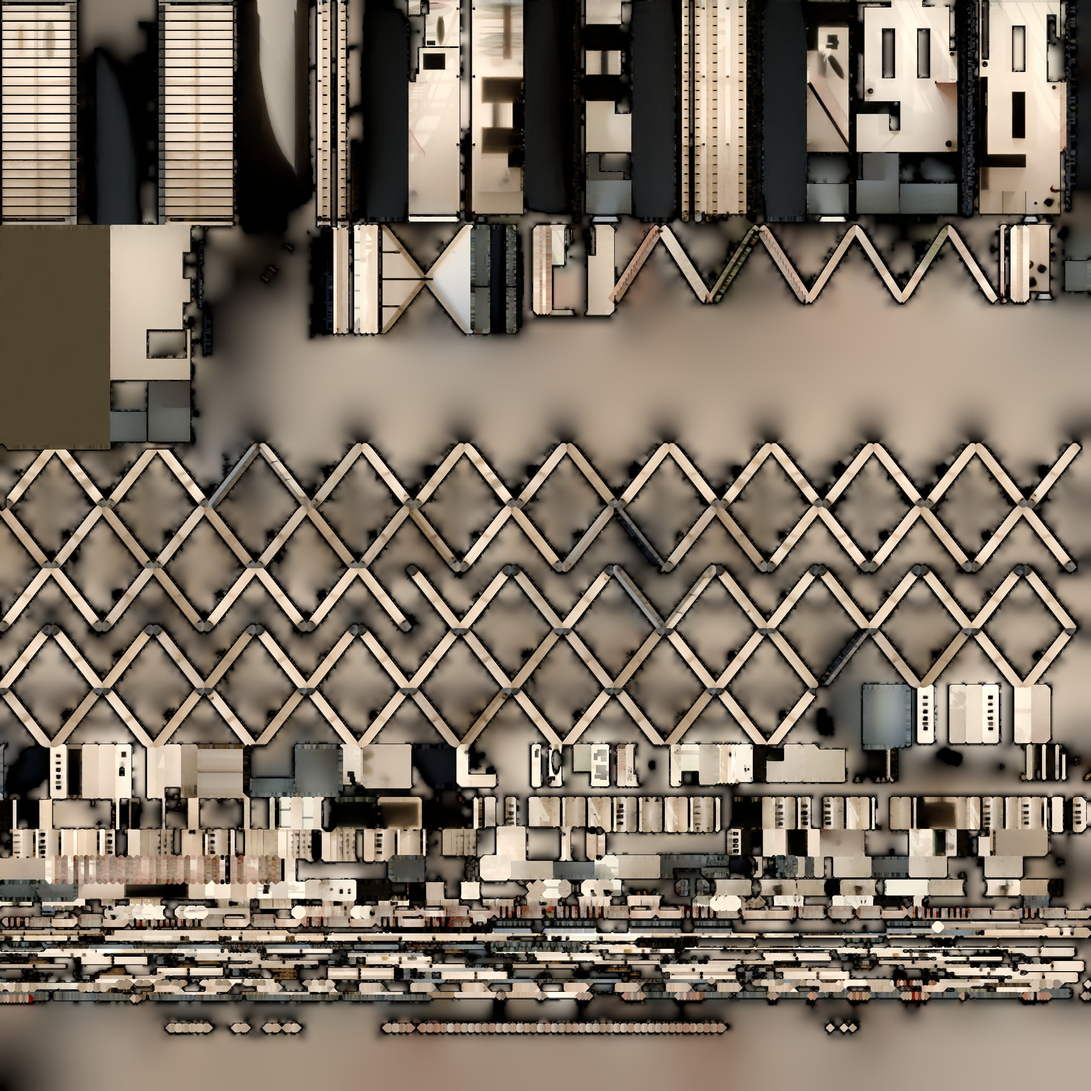
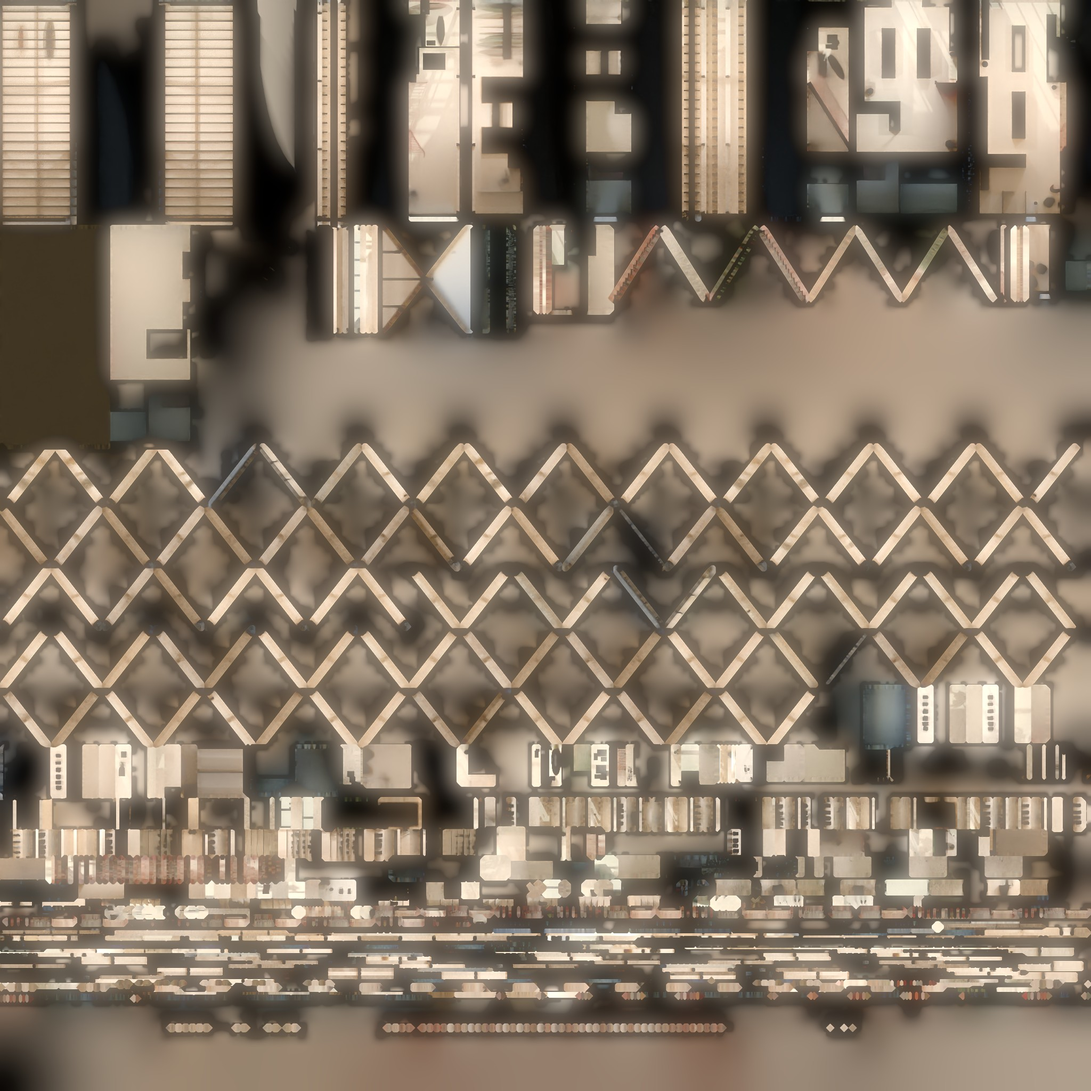
Flecken weg, Gwand ohne Doppelungen, Dachüberstand weg, saubere Fassaden, kräftigere Außenansicht, ruhigeres Layout
Claude-Session: https://claude.ai/code/session_01KTKjPRYoRgXpQnt9gzr4rm

Changed region(s): [[0.0, 0.0, 1.0, 0.9688], [0.9688, 0.5625, 1.0, 0.5938]]

diff --git a/look.css b/look.css
@@ -1,49 +1,28 @@
-/* visual refresh: editorial intro, bottom dock */
-:root{--sand:#efe6d2;--paper:#f8f3e8;--ink:#1f3a44;--coral:#e0582f;--gold:#d9a441}
-.intro{align-items:stretch;justify-content:space-between;flex-direction:column;padding:clamp(18px,4vw,52px);
-  background:radial-gradient(120% 90% at 0% 100%,rgba(16,14,11,.88) 0%,rgba(16,14,11,.7) 45%,rgba(16,14,11,.0) 80%),
-             linear-gradient(180deg,rgba(16,14,11,.45),rgba(16,14,11,0) 30%);color:var(--paper)}
-.intro__top{display:flex;justify-content:space-between;align-items:center;gap:1rem}
-.intro .brand{color:var(--paper)}
-.intro .brand__mark{background:var(--coral)}
-.intro__tag{font-size:.72rem;letter-spacing:.14em;text-transform:uppercase;opacity:.75}
-.intro__body{max-width:640px;margin-top:auto}
-.intro__kicker{display:flex;align-items:center;gap:.55rem;font-size:.78rem;letter-spacing:.16em;text-transform:uppercase;color:var(--gold);margin:0}
-.intro__kicker .dot{width:8px;height:8px;border-radius:50%;background:var(--coral);box-shadow:0 0 0 4px rgba(224,88,47,.25)}
-.intro h1{color:var(--paper);font-size:clamp(3rem,9vw,7.2rem);line-height:.88;letter-spacing:-.035em;margin:.9rem 0 1.1rem;text-transform:none}
+/* clean look: model in full view, compact dark card */
+:root{--sand:#efe6d2;--paper:#f8f3e8;--ink:#1f3a44;--coral:#e0582f;--gold:#e2ad52}
+#scene{filter:contrast(1.08) saturate(1.15)}
+.intro{flex-direction:column;justify-content:space-between;align-items:stretch;padding:clamp(16px,3vw,36px);background:linear-gradient(180deg,rgba(10,9,8,.35),rgba(10,9,8,0) 22%)}
+.intro__top{display:flex;justify-content:space-between;align-items:center}
+.intro .brand{color:#fff}.intro .brand__mark{background:var(--coral)}
+.intro__tag{font-size:.7rem;letter-spacing:.14em;text-transform:uppercase;color:rgba(255,255,255,.8)}
+.intro__body{align-self:flex-start;width:min(440px,100%);background:rgba(18,16,14,.62);backdrop-filter:blur(18px) saturate(1.3);-webkit-backdrop-filter:blur(18px) saturate(1.3);
+  border:1px solid rgba(255,255,255,.12);border-radius:20px;padding:24px 26px;color:var(--paper);box-shadow:0 30px 70px rgba(0,0,0,.35)}
+.intro__kicker{display:flex;align-items:center;gap:.5rem;font-size:.72rem;letter-spacing:.16em;text-transform:uppercase;color:var(--gold);margin:0}
+.intro__kicker .dot{width:7px;height:7px;border-radius:50%;background:var(--coral)}
+.intro h1{color:#fff;font-size:clamp(2.2rem,4.2vw,3.2rem);line-height:.95;letter-spacing:-.025em;margin:.7rem 0 .8rem;text-transform:none}
 .intro h1 em{color:var(--gold);font-style:normal}
-.intro__lead{text-shadow:0 1px 12px rgba(0,0,0,.6);color:rgba(248,243,232,.9);font-size:.92rem;line-height:1.65;max-width:52ch;margin-bottom:1.6rem}
-.progress__bar{background:rgba(255,255,255,.18);height:3px}
-.progress__label{color:rgba(248,243,232,.7)}
-.btn{padding:1rem 1.6rem;font-size:.95rem}
-.btn--primary{background:var(--coral);color:#fff}
-.btn--primary:hover{background:#f0683d;box-shadow:0 12px 30px rgba(224,88,47,.35)}
-.btn--ghost{border-color:rgba(248,243,232,.6);color:var(--paper)}
-.btn--ghost:hover{background:var(--paper);color:var(--ink)}
-.intro__vrnote{color:rgba(248,243,232,.7)}
-.intro__foot{display:flex;justify-content:space-between;align-items:flex-end;gap:1.5rem;flex-wrap:wrap;margin-top:2rem;padding-top:1.1rem;border-top:1px solid rgba(248,243,232,.18)}
-.facts{list-style:none;margin:0;padding:0;display:flex;gap:clamp(1rem,3vw,2.6rem);flex-wrap:wrap}
-.facts li{display:grid;gap:.15rem}
-.facts b{font-family:var(--serif);font-weight:800;font-size:1.25rem;color:var(--paper)}
-.facts span{font-size:.7rem;letter-spacing:.1em;text-transform:uppercase;color:rgba(248,243,232,.6)}
-.intro .keys{border:0;margin:0;padding:0;color:rgba(248,243,232,.7)}
-.intro kbd{background:rgba(255,255,255,.1);color:var(--paper);border-color:rgba(255,255,255,.25)}
-
-/* HUD: brand + tools on top, stations as a dock at the bottom */
-.hud__brand{background:rgba(20,18,15,.55);color:var(--paper)}
-.hud__brand .brand__mark{background:var(--coral)}
+.intro__lead{color:rgba(248,243,232,.78);font-size:.84rem;line-height:1.6;margin:0 0 1.2rem}
+.progress__bar{background:rgba(255,255,255,.15);height:3px}.progress__label{color:rgba(248,243,232,.65)}
+.btn--primary{background:var(--coral);color:#fff}.btn--primary:hover{background:#f0683d}
+.btn--ghost{border-color:rgba(248,243,232,.5);color:var(--paper)}.btn--ghost:hover{background:var(--paper);color:var(--ink)}
+.intro__vrnote{color:rgba(248,243,232,.65)}
+.intro__foot{display:none}
+.hud__brand{background:rgba(18,16,14,.6);color:var(--paper)}.hud__brand .brand__mark{background:var(--coral)}
 .hud__floor{background:var(--gold);color:#1b1a18}
-.stations{position:fixed;left:50%;bottom:max(18px,env(safe-area-inset-bottom));transform:translateX(-50%);margin:0;
-  background:rgba(20,18,15,.6);backdrop-filter:blur(16px);-webkit-backdrop-filter:blur(16px);padding:6px;border-radius:999px;max-width:calc(100vw - 32px)}
-.chip{background:transparent;color:rgba(248,243,232,.85);backdrop-filter:none}
-.chip:hover{background:rgba(255,255,255,.12)}
+.stations{position:fixed;left:50%;bottom:max(18px,env(safe-area-inset-bottom));transform:translateX(-50%);margin:0;background:rgba(18,16,14,.62);
+  backdrop-filter:blur(16px);-webkit-backdrop-filter:blur(16px);padding:6px;border-radius:999px;max-width:calc(100vw - 32px)}
+.chip{background:transparent;color:rgba(248,243,232,.85);backdrop-filter:none}.chip:hover{background:rgba(255,255,255,.12)}
 .chip.is-active{background:var(--paper);color:var(--ink)}
-.icon-btn{background:rgba(20,18,15,.55);color:var(--paper)}
-.icon-btn svg{stroke:var(--paper)}
-.icon-btn:hover{background:rgba(20,18,15,.8)}
-.hint{bottom:calc(max(18px,env(safe-area-inset-bottom)) + 62px);background:rgba(20,18,15,.6);color:var(--paper)}
-@media (max-width:720px){
-  .intro__tag{display:none}
-  .stations{order:initial;width:auto}
-  .facts{display:none}
-}
+.icon-btn{background:rgba(18,16,14,.6)}.icon-btn svg{stroke:var(--paper)}#btnVR2{background:var(--coral)}
+.hint{bottom:calc(max(18px,env(safe-area-inset-bottom)) + 62px);background:rgba(18,16,14,.62);color:var(--paper)}
+@media (max-width:720px){.intro__tag{display:none}.stations{order:initial;width:auto}}

diff --git a/app.js b/app.js
@@ -29,6 +29,7 @@ renderer.setPixelRatio(TEST ? 1 : Math.min(window.devicePixelRatio, isTouch ? 1.
 renderer.setSize(innerWidth, innerHeight);
 renderer.outputColorSpace = THREE.SRGBColorSpace;
 renderer.toneMapping = THREE.AgXToneMapping;
+renderer.localClippingEnabled = true;
 renderer.toneMappingExposure = parseFloat(params.get('exp') || '1.0');
 renderer.xr.enabled = true;
 renderer.xr.setReferenceSpaceType('local-floor');
@@ -38,17 +39,17 @@ const scene = new THREE.Scene();
 {
   const c = document.createElement('canvas'); c.width = 16; c.height = 512;
   const g = c.getContext('2d'), gr = g.createLinearGradient(0, 0, 0, 512);
-  gr.addColorStop(0.0, '#6f9ac2'); gr.addColorStop(0.3, '#a9c5df'); gr.addColorStop(0.49, '#e4e6e6');
-  gr.addColorStop(0.5, '#c9c6c0'); gr.addColorStop(1.0, '#b9b5ae');
+  gr.addColorStop(0.0, '#2f5d8a'); gr.addColorStop(0.28, '#6d97bd'); gr.addColorStop(0.42, '#d9b48a'); gr.addColorStop(0.49, '#f2c48c');
+  gr.addColorStop(0.5, '#b8a48c'); gr.addColorStop(1.0, '#8f8274');
   g.fillStyle = gr; g.fillRect(0, 0, 16, 512);
   const t = new THREE.CanvasTexture(c); t.mapping = THREE.EquirectangularReflectionMapping; t.colorSpace = THREE.SRGBColorSpace;
   scene.background = t;
-  scene.fog = new THREE.Fog('#d9dcdf', 60, 170);
+  scene.fog = new THREE.Fog('#e8c39a', 80, 230);
 }
 const camera = new THREE.PerspectiveCamera(70, innerWidth / innerHeight, 0.05, 400);
 const rig = new THREE.Group();          // player feet
 scene.add(rig);
-scene.add(new THREE.HemisphereLight(0xfff2e2, 0x9a8a74, 0.35));   // soft fill so no corner goes black
+scene.add(new THREE.HemisphereLight(0xfff2e2, 0x9a8a74, 0.12));   // soft fill so no corner goes black
 rig.add(camera);
 
 /* ------------------------------------------------------------------ loading bookkeeping */
@@ -100,13 +101,13 @@ const BAKED = {
   ceiling: () => std({ color: linHex('#efebe4'), roughness: 0.9 }),
   plaster: () => std({ map: tex(T + 'white_plaster_02_col.jpg', 2, 2), roughness: 0.9 }),
   concrete: () => std({ map: tex(T + 'concrete_floor_02_col.jpg', 2.5, 2.5), roughness: 0.8 }),
-  facade: () => std({ map: tex(T + 'plastered_wall_04_col.jpg', 2, 2), color: linHex('#5a5e62'), roughness: 0.8 }),
+  facade: () => std({ color: linHex('#2b2e31'), roughness: 0.55, metalness: 0.3 }),
   orange: () => std({ color: linHex('#d4502c'), roughness: 0.45, metalness: 0.1 }),
   roofmetal: () => std({ color: linHex('#3a4045'), roughness: 0.4, metalness: 0.6 }),
-  nb_plaster_a: () => std({ map: tex(T + 'yellow_plaster_col.jpg', 2.5, 2.5), roughness: 0.9 }),
-  nb_plaster_b: () => std({ map: tex(T + 'beige_wall_001_col.jpg', 2.5, 2.5), roughness: 0.9 }),
-  nb_plaster_c: () => std({ map: tex(T + 'plastered_wall_04_col.jpg', 2.5, 2.5), color: linHex('#ece6da'), roughness: 0.9 }),
-  nb_stone: () => std({ map: tex(T + 'plastered_wall_04_col.jpg', 2, 2), color: linHex('#b7b0a4'), roughness: 0.85 }),
+  nb_plaster_a: () => std({ color: linHex('#dcc493'), roughness: 0.85 }),
+  nb_plaster_b: () => std({ color: linHex('#ddd3c2'), roughness: 0.85 }),
+  nb_plaster_c: () => std({ color: linHex('#c9cdcc'), roughness: 0.85 }),
+  nb_stone: () => std({ color: linHex('#7d776e'), roughness: 0.8 }),
   walk: () => std({ map: tex(T + 'granite_tile_03_col.jpg', 2, 2), roughness: 0.8 }),
   curb: () => std({ color: linHex('#4a4a4a'), roughness: 0.6, metalness: 0.4 }),
   road: () => std({ map: tex(T + 'granite_tile_col.jpg', 2, 2), roughness: 0.85 }),
@@ -116,7 +117,7 @@ const DYN = {
   rubber: () => std({ color: linHex('#141516'), roughness: 0.85 }),
   glass: () => new THREE.MeshPhysicalMaterial({ color: '#eef4f3', roughness: 0.02, transparent: true, opacity: 0.1, envMapIntensity: 1.4, depthWrite: false, side: THREE.DoubleSide }),
   nb_glass: () => std({ color: linHex('#1c2226'), roughness: 0.05, metalness: 0.2, envMapIntensity: 1.2 }),
-  nb_frame: () => std({ color: linHex('#e6e2da'), roughness: 0.5 }),
+  nb_frame: () => std({ color: linHex('#f4f1ea'), roughness: 0.45 }),
   nb_shopglass: () => std({ color: linHex('#202629'), roughness: 0.03, metalness: 0.1, envMapIntensity: 1.3 }),
   nb_shopframe: () => std({ color: linHex('#2a2c2e'), roughness: 0.4, metalness: 0.6 }),
   nb_roof: () => std({ map: tex(T + 'grey_roof_tiles_col.jpg', 3, 3), roughness: 0.8 }),
@@ -198,6 +199,7 @@ async function loadAll() {
     }
     o.material = mat;
     if (name === 'roofmetal') o.visible = false;   // no roof overhang
+    if (name === 'nb_roof' || name === 'facade') { mat.clippingPlanes = [new THREE.Plane(new THREE.Vector3(0, 0, -1), 6.94)]; }
     if (name === 'glass' || name === 'p_glass') o.renderOrder = 2;
     if (COLLIDE.has(name)) colliders.push(o);
   });
@@ -360,9 +362,9 @@ let orbitT = 0;
 function orbitCamera(dt) {
   orbitT += dt * 0.06;
   // slow dolly along the shopping street, looking at the shop front
-  rig.position.set(Math.sin(orbitT) * 9 - 2, 0, 15.5);
-  camera.position.set(0, 2.2, 0);
-  const v = lookAtYawPitch(new THREE.Vector3(rig.position.x, 2.2, rig.position.z), new THREE.Vector3(0.4, 4.2, 4));
+  rig.position.set(Math.sin(orbitT) * 6 - 1, 0, 13.5);
+  camera.position.set(0, 1.5, 0);
+  const v = lookAtYawPitch(new THREE.Vector3(rig.position.x, 1.5, rig.position.z), new THREE.Vector3(0.3, 4.6, 5));
   yaw = v.yaw; pitch = v.pitch; applyView();
 }
 
